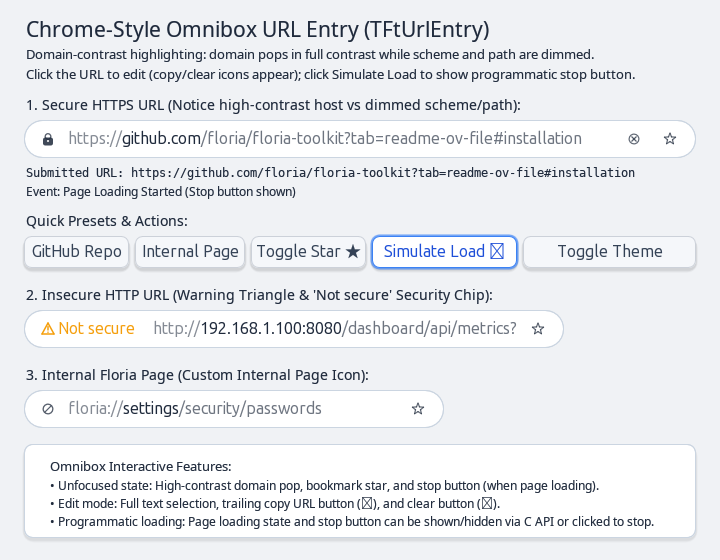
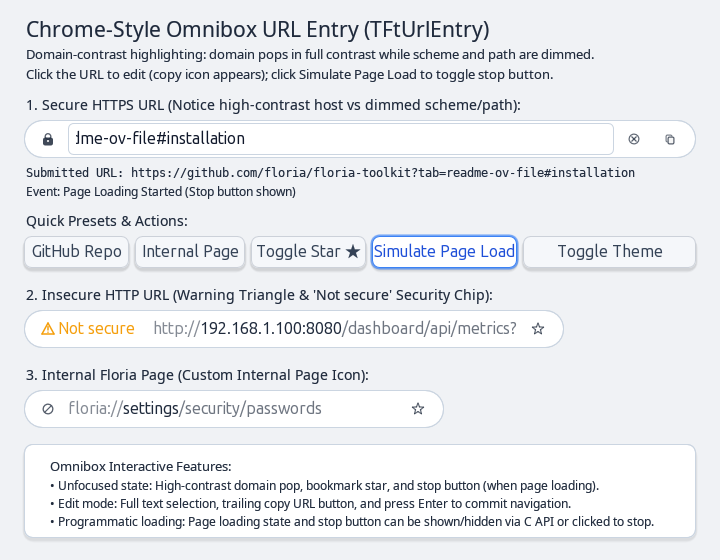
fix(urlentry): prevent submit on lost focus and disable confusing clear button by default

diff --git a/examples/c/url_entry.c b/examples/c/url_entry.c
@@ -136,7 +136,7 @@ int main(int argc, char* argv[]) {
     ft_widget_set_font(desc1, "Sans 10");
 
     FtWidget desc2 = ft_text_create(win, 24, 66, 672, 18, 
-        "Click the URL to edit (copy/clear icons appear); click Simulate Load to show programmatic stop button.");
+        "Click the URL to edit (copy icon appears); click Simulate Page Load to toggle stop button.");
     ft_widget_set_font(desc2, "Sans 10");
 
     /* 1. Main Secure HTTPS URL Bar */
@@ -172,7 +172,7 @@ int main(int argc, char* argv[]) {
     FtWidget btn_bm = ft_button_create(win, 251, 236, 115, 32, "Toggle Star ★");
     ft_button_on_click(btn_bm, on_toggle_star, NULL);
 
-    FtWidget btn_load = ft_button_create(win, 372, 236, 145, 32, "Simulate Load ✕");
+    FtWidget btn_load = ft_button_create(win, 372, 236, 145, 32, "Simulate Page Load");
     ft_button_on_click(btn_load, on_simulate_load, NULL);
 
     FtWidget btn_theme = ft_button_create(win, 523, 236, 173, 32, "Toggle Theme");
@@ -209,7 +209,7 @@ int main(int argc, char* argv[]) {
     ft_widget_set_font(tip1, "Sans 9");
 
     FtWidget tip2 = ft_text_create(note_card, 16, 46, 640, 18,
-        "• Edit mode: Full text selection, trailing copy URL button (📋), and clear button (✕).");
+        "• Edit mode: Full text selection, trailing copy URL button, and press Enter to commit navigation.");
     ft_widget_set_font(tip2, "Sans 9");
 
     FtWidget tip3 = ft_text_create(note_card, 16, 64, 640, 18,
